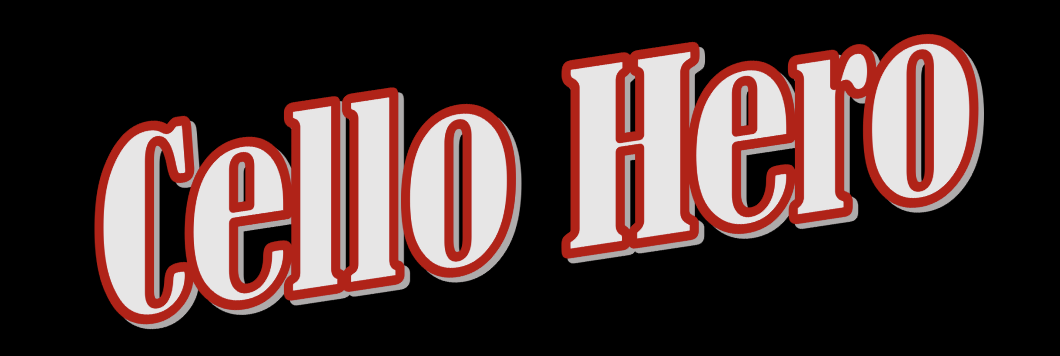
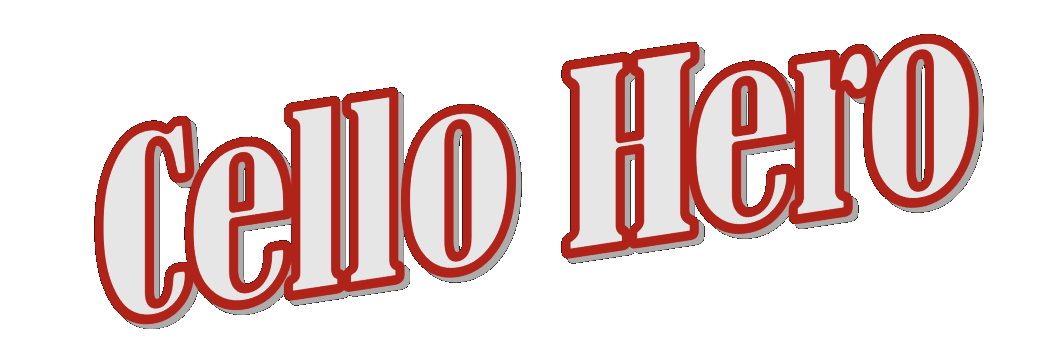
background fixed

diff --git a/input_demo.py b/input_demo.py
@@ -309,19 +309,30 @@ class FeedbackArrow(InstructionGroup):
 
 
 LEDGER_LINE_WIDTH = 55 * RESIZE_MULTIPLIER
+LEDGER_LINE_XOFFSET = -10
 class LedgerLine(InstructionGroup):
     def __init__(self, note, left_px):
         super(LedgerLine, self).__init__()
         assert (note%2 == 0 and (note >= MIDDLE_C_ID or note <= E2_ID))
-        self.color = Color(.8,.8,.2)
+        self.color = Color(0,0,0)
         self.add(self.color)
         self.pos = np.array((left_px, note_to_lower_left(note) + LANE_SEP))
-        self.line = Line(points=[self.pos[0],self.pos[1],self.pos[0]+LEDGER_LINE_WIDTH,self.pos[1]],width=4)
+        self.line = Line(points=[
+            self.pos[0]+LEDGER_LINE_XOFFSET,
+            self.pos[1],
+            self.pos[0]+LEDGER_LINE_WIDTH+LEDGER_LINE_XOFFSET,
+            self.pos[1]
+        ],width=4)
         self.add(self.line)
 
     def on_update(self,dt):
         self.pos += np.array([-NOTE_SPEED*dt, 0])
-        self.line.points = [self.pos[0],self.pos[1],self.pos[0]+LEDGER_LINE_WIDTH,self.pos[1]]
+        self.line.points = [
+            self.pos[0]+LEDGER_LINE_XOFFSET,
+            self.pos[1],
+            self.pos[0]+LEDGER_LINE_WIDTH+LEDGER_LINE_XOFFSET,
+            self.pos[1]
+        ]
 
     @staticmethod
     def get_ledger_lines(note, left_px):
@@ -348,23 +359,25 @@ class NoteFigure(InstructionGroup):
         if dur == 4:
             return np.array((-2,-4))
         elif dur == 3 and down:
-            return np.array((0,-90))
+            return np.array((0,-145))
         elif dur == 3 and not down:
             return np.array((0,3))
         elif dur == 2 and down:
             return np.array((0,-140))
         elif dur == 2 and not down:
+            return np.array((0,8))
+        elif dur == 1.5 and down:
             return np.array((0,-155))
         elif dur == 1.5 and not down:
-            return np.array((-5,2))
+            return np.array((-5,8))
         elif dur == 1 and down:
             return np.array((-22,-155))
         elif dur == 1 and not down:
             return np.array((-18,-12))
         elif dur == 0.5 and down:
-            return np.array((0,-90))
+            return np.array((0,-138))
         elif dur == 0.5 and not down:
-            return np.array((0,0))
+            return np.array((0,8))
         return np.array((0,0))
 
     @staticmethod
@@ -389,7 +402,7 @@ class NoteFigure(InstructionGroup):
         super(NoteFigure, self).__init__()
         self.dur = round(duration_beats, 1)
         self.note = note
-        self.add(Color(.8,.8,.2))
+        self.add(Color(0,0,0))
         self.pos = np.array((left_px, note_to_lower_left(note)))
 
         # if duration_beats == 4:
@@ -453,7 +466,7 @@ class NoteDisplay(InstructionGroup):
 
         self.pos = np.array([horiz_position, vert_position+NOTE_RECT_MARGIN])
 
-        self.color = Color(1,1,1)
+        self.color = Color(.763,.706,.371)
         self.add(self.color)
 
         self.rect = RoundedRectangle(radius=[NOTE_RADIUS]*4, pos=self.pos, size=(duration_time*NOTE_SPEED, LANE_HEIGHT-2*NOTE_RECT_MARGIN))
@@ -530,7 +543,7 @@ class NoteDisplay(InstructionGroup):
 class BarLine(InstructionGroup):
     def __init__(self, time):
         super(BarLine, self).__init__()
-        self.color = Color(1,1,1)
+        self.color = Color(0,0,0)
         self.add(self.color)
 
         self.x = NOW_BAR_X + time*NOTE_SPEED
@@ -559,9 +572,9 @@ class BeatMatchDisplay(InstructionGroup):
 
 
         # draw staff lines
-        self.add(Color(1,1,1))
+        self.add(Color(0,0,0))
         for y in STAFF_Y_VALS:
-            self.add(Line(points=[STAFF_LEFT_X,y,Window.width,y], width=2))
+            self.add(Line(points=[STAFF_LEFT_X,y,Window.width*2,y], width=2))
         self.add(Line(
             points=[
                 STAFF_LEFT_X,
@@ -585,12 +598,13 @@ class BeatMatchDisplay(InstructionGroup):
             self.add(bar)
             self.bars.append(bar)
 
+        # TODO get the fade
         # this makes note content disappear once it passes the now bar
-        self.add(Color(0,0,0))
-        self.add(Rectangle(pos=(0,0),size=(BIG_BLACK_BOX_X,Window.height-200),texture = Image(source = "images/gradient.png").texture))
+        # self.add(Color(0,0,0))
+        # self.add(Rectangle(pos=(0,0),size=(BIG_BLACK_BOX_X,Window.height-200),texture = Image(source = "images/gradient.png").texture))
 
         # draw now bar
-        self.add(Color(1,1,1))
+        self.add(Color(0,0,0))
         self.add(Line(
             points=[
                 NOW_BAR_X,
@@ -809,14 +823,19 @@ class MainWidget1(BaseWidget):
         self.info = Label(text= "", pos = (self.padding, Window.height - self.padding), font_size = 40, font_name = self.FONT_NAME)
         self.add_widget(self.info)
 
-        self.objects = AnimGroup()
-        self.canvas.add(self.objects)
-
         self.score = 0
         self.song_data = None
         self.display = None
         self.cellist = None
-        
+
+        # Background
+        self.background = Image(
+            source = "images/parchment.png",
+            size = (Window.width * RESIZE_MULTIPLIER*2, Window.height * RESIZE_MULTIPLIER*2),
+            pos = (-100,-500)
+        )
+        self.add_widget(self.background)
+
         # CELLO HERO
         self.logo = Image(
             source = "images/cellohero.png",
@@ -833,6 +852,9 @@ class MainWidget1(BaseWidget):
             allow_stretch = True
         )
         self.add_widget(self.bear)
+
+        self.objects = AnimGroup()
+        self.canvas.add(self.objects)
 
         self.reset_button = None
         self.replay_button = None
@@ -859,7 +881,7 @@ class MainWidget1(BaseWidget):
         if (self.bear):
             self.position_bear(len(self.buttons) > 0) # hack to know on main screen
 
-            
+
         # buttons
         navigation_button_size = (Window.width/4, Window.height/3)
         naviation_button_font_size = Window.height/20
@@ -871,7 +893,7 @@ class MainWidget1(BaseWidget):
             self.replay_button.size = navigation_button_size
             self.replay_button.pos = (Window.width - navigation_button_size[0] - padding, padding)
             self.replay_button.font_size = naviation_button_font_size
-        
+
         button_num = 0
         for button in self.buttons:
             button.size = (Window.width/4, (Window.height - 2 * padding - .5 * padding * len(self.buttons))/len(self.buttons))
@@ -887,7 +909,7 @@ class MainWidget1(BaseWidget):
             print("here")
             self.info.font_size = Window.height/20
             self.info.pos = (Window.width/15, 7/8*Window.height)
-            
+
 
     def position_bear(self, is_main_menu):
         if (is_main_menu):
@@ -1011,7 +1033,7 @@ class MainWidget1(BaseWidget):
             self.add_widget(self.info)
 
         self.buttons = []
-        
+
         self.create_button('C Major Scale', 'cmaj', (0,0))
         self.create_button('Mary Had a Little Lamb', 'mary', (0,0))
         self.create_button('Rigadoon', 'rigadoon', (0,0))
